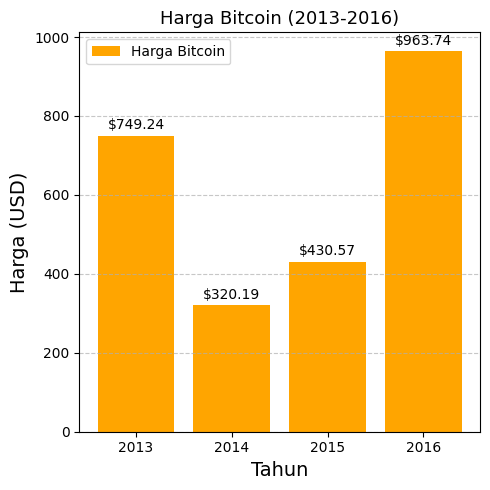
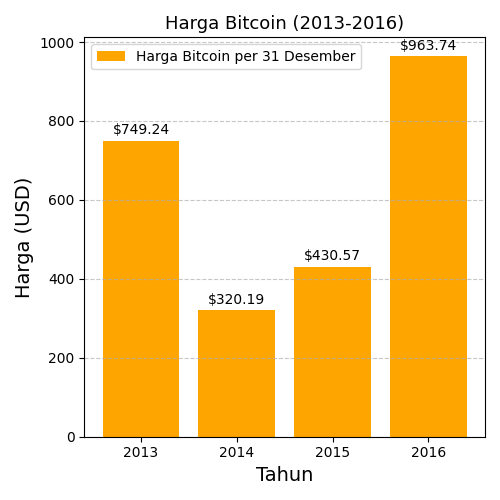
update ss

diff --git a/btc_price_per_year.py b/btc_price_per_year.py
@@ -42,7 +42,7 @@ for start_year, end_year in intervals:
     
     # Plot harga Bitcoin pada 31 Desember setiap tahun untuk interval ini
     plt.figure(figsize=(5, 5))
-    plt.bar(data_interval["Year"], data_interval["Price"], color="orange", label="Harga Bitcoin")
+    plt.bar(data_interval["Year"], data_interval["Price"], color="orange", label="Harga Bitcoin per 31 Desember")
     
     # Tambahkan label harga di setiap batang
     for year, price in zip(data_interval["Year"], data_interval["Price"]):
